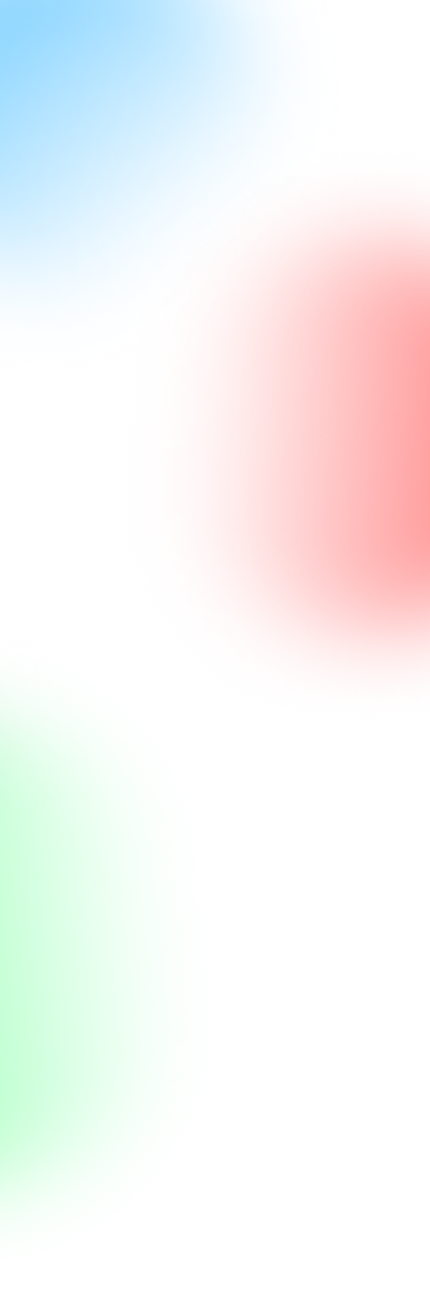
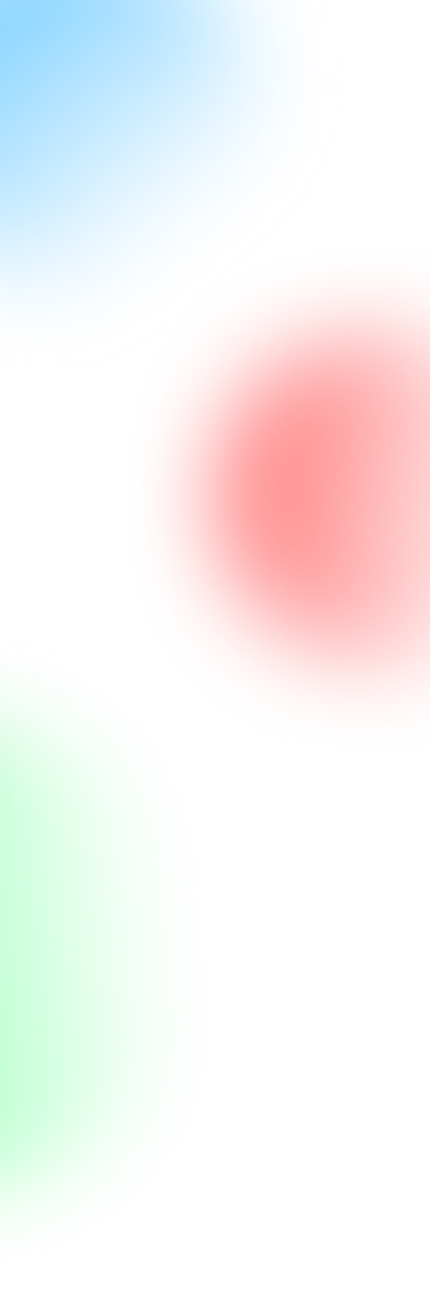
change bg 1

Changed region(s): [[0.4233, 0.2793, 0.8163, 0.5275], [0.6651, 0.1552, 1.0, 0.4655]]

diff --git a/style.css b/style.css
@@ -283,7 +283,7 @@ margin-right: 15px;
 @media only screen and (max-width: 576px) {
     body{
         margin:25px;
-        background-image: url('/src/img/bgmobile.png');
+        background-image: url('/src/img/bgmobile1.png');
         
     }
 
